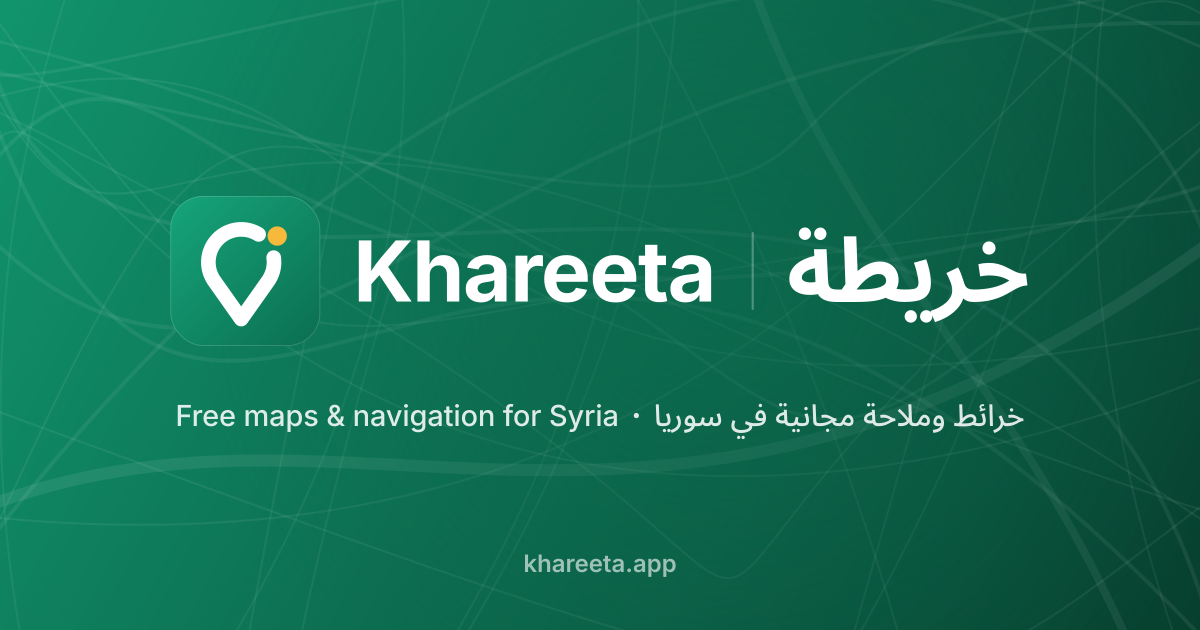
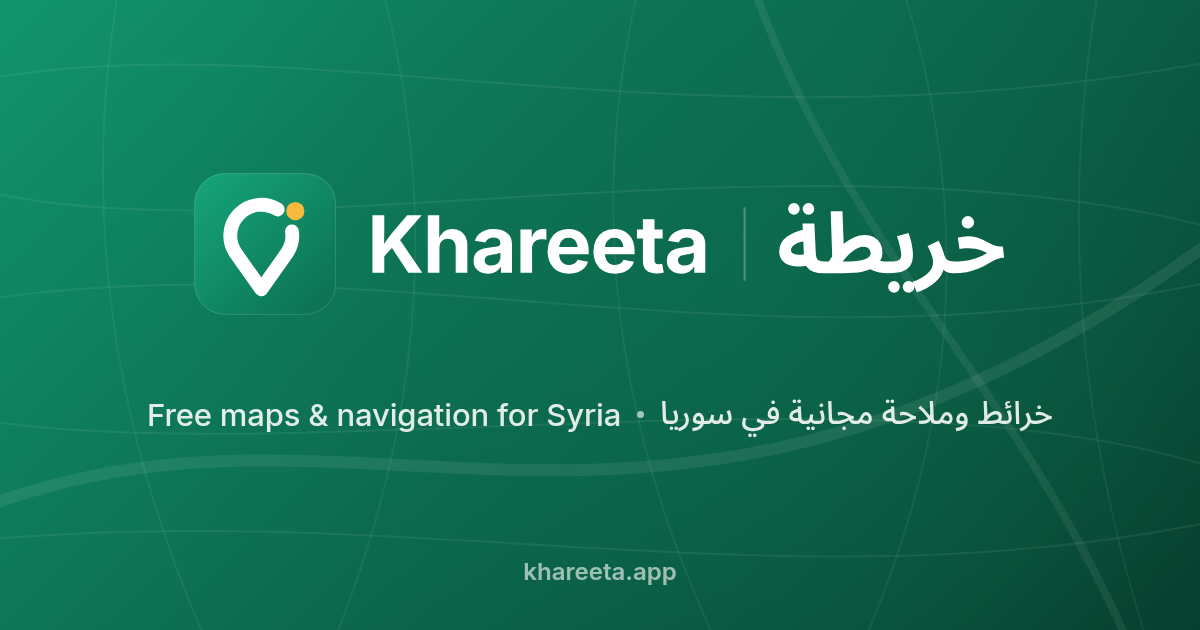
Quick Fixes: VERSION Berliner Zeit, Attribution, A11y, SEO-Basis
- scripts/bump-version.sh: VERSION in js/util.js + sw.js (Europe/Berlin)
- OSM-Attribution immer sichtbar, lokalisiert (EN/AR/DE), RTL, eigenes Control
- Viewport ohne maximum-scale; Touch-Targets >= 44px
- i18n: doppelte Keys entfernt, aria-labels + About-Quellen lokalisiert
- Manifest-Farben #F4F2EE, robots.txt, sitemap.xml, JSON-LD, OG-Bild aus HTML-Template
- SW: robots/sitemap/OG-Bild nie cachen

diff --git a/js/i18n.js b/js/i18n.js
@@ -1,8 +1,10 @@
 // UI strings – English is the default on first load (always), Arabic (RTL) and German selectable.
 const S = {
 en: {
-  searchOffline: 'Search saved & offline places', add: 'Add', addHint: 'Search for a place, then tap Save', setHint: 'Search for a place, then use “Set as {k}”', locDeniedT: 'Location is off', locDeniedB: 'Allow location access for Khareeta in your browser settings to see where you are and to navigate.', noHeading: 'Compass not available on this device', droppedPin: 'Dropped pin', coordinates: 'Coordinates', copy: 'Copy', editOsm: 'Edit on OpenStreetMap', fee: 'Fee', more: 'More', close: 'Close', fastestRoute: 'Fastest route', shortest: 'Shortest', go: 'Go', noVoice: 'Voice not available in {l} on this device', done: 'Done', arrival: 'arrival', system: 'System', mapHdr: 'Map', appearance: 'Appearance', bilingual: 'Show place names in Arabic too', navHdr: 'Navigation', details: 'Details', seeAll: 'See all', threeD: '3D', settings: 'Settings',
+  searchOffline: 'Search saved & offline places', add: 'Add', addHint: 'Search for a place, then tap Save', setHint: 'Search for a place, then use “Set as {k}”', locDeniedT: 'Location is off', locDeniedB: 'Allow location access for Khareeta in your browser settings to see where you are and to navigate.', noHeading: 'Compass not available on this device', droppedPin: 'Dropped pin', coordinates: 'Coordinates', copy: 'Copy', editOsm: 'Edit on OpenStreetMap', fee: 'Fee', more: 'More', close: 'Close', fastestRoute: 'Fastest route', shortest: 'Shortest', go: 'Go', noVoice: 'Voice not available in {l} on this device', done: 'Done', arrival: 'arrival', system: 'System', mapHdr: 'Map', appearance: 'Appearance', bilingual: 'Show place names in Arabic too', navHdr: 'Navigation', details: 'Details', threeD: '3D', settings: 'Settings',
   search: 'Search Khareeta', directions: 'Directions', menu: 'Menu', clear: 'Clear',
+  zoomIn: 'Zoom in', zoomOut: 'Zoom out', back: 'Back', swap: 'Swap start and destination', sheet: 'Panel – tap to resize', mapAria: 'Map', osmAttr: '© OpenStreetMap contributors', mapCredits: 'Map credits',
+  aboutText: 'Khareeta is a free navigation app built on OpenStreetMap. It only uses key-free community services that do not block Syria.', cMapData: 'Map data', cOsm: 'OpenStreetMap contributors', cPlaces: 'Places (hotels, ATMs, restaurants …): bundled OpenStreetMap extract for Syria via {g}, data from {d}', cTiles: 'Vector tiles & styles', cRenderer: 'Map renderer', cSearch: 'Search', cRouting: 'Routing', cPoi: 'Place details', cPhotos: 'Photos & articles', cWeather: 'Weather', cTerrain: 'Terrain', cStyle: 'Map style & sprites: Khareeta design', cIcons: 'Icons', cFonts: 'Fonts',
   openNow: 'Open now', nearbyN: '{n} within 10 km', inSyria: '{n} in Syria', hoursKnown: 'hours known for {n}', noOpenNow: 'Nothing listed as open right now – opening hours are only known for some places.', liveSearch: 'Search live OpenStreetMap in this area', poiData: 'Places: © OpenStreetMap contributors (ODbL), data from {d}',
   restaurants: 'Restaurants', cafes: 'Cafés', fuel: 'Fuel', pharmacy: 'Pharmacies', hospital: 'Hospitals', atm: 'ATMs & banks', bank: 'Banks',
   mosque: 'Mosques', church: 'Churches', hotel: 'Hotels', supermarket: 'Groceries', bakery: 'Bakeries', parking: 'Parking', toilets: 'Toilets', police: 'Police', school: 'Schools', tourism: 'Attractions',
@@ -36,13 +38,15 @@ en: {
   rbt: 'At the roundabout, take exit {x}', rbtOnto: 'At the roundabout, take exit {x} onto {n}', rbtEnter: 'Enter the roundabout', endRoad: 'At the end of the road, {a}', cont: 'Continue', contOn: 'Continue on {n}',
   arriveDest: 'You have arrived at your destination', arriveL: 'Your destination is on the left', arriveR: 'Your destination is on the right', arriveWp: 'You have reached stop {n}',
   ferry: 'Take the ferry', inDist: 'In {d}, {i}', ordinals: ['1st','2nd','3rd','4th','5th','6th','7th','8th','9th','10th'],
-  sources: 'Data', reportIssue: 'Data from OpenStreetMap – anyone can improve it.', share_route: 'Share route', settings: 'Settings',
+  sources: 'Data', reportIssue: 'Data from OpenStreetMap – anyone can improve it.', share_route: 'Share route',
   tryAgain: 'Try again', netErr: 'Network problem – retrying with another server…', serviceDown: 'Service unreachable. Check your connection.',
   osmLink: 'View on OpenStreetMap', moreInfo: 'More info', seeAll: 'See all', opennow: 'Open now', distance: 'Distance', duration: 'Time', simulate: 'Simulate drive', stats: 'Anonymous usage statistics', privacy: 'Privacy', privacyText: 'No account, no tracking cookies. If enabled, Khareeta sends anonymous counts (random install id, language, device type, app version, country/city at ~10 km precision only if you shared your location). Never your exact position, IP address or search texts. Saved places stay on your device.',
 },
 ar: {
-  searchOffline: 'ابحث في الأماكن المحفوظة وغير المتصلة', add: 'إضافة', addHint: 'ابحث عن مكان ثم اضغط حفظ', setHint: 'ابحث عن مكان ثم استخدم «تعيين كـ{k}»', locDeniedT: 'الموقع متوقف', locDeniedB: 'اسمح لخريطة بالوصول إلى موقعك من إعدادات المتصفح لرؤية مكانك والملاحة.', noHeading: 'البوصلة غير متاحة على هذا الجهاز', droppedPin: 'دبوس', coordinates: 'الإحداثيات', copy: 'نسخ', editOsm: 'تعديل في OpenStreetMap', fee: 'رسوم', more: 'المزيد', close: 'إغلاق', fastestRoute: 'أسرع طريق', shortest: 'الأقصر', go: 'انطلق', noVoice: 'الصوت غير متاح بـ{l} على هذا الجهاز', done: 'تم', arrival: 'الوصول', system: 'النظام', mapHdr: 'الخريطة', appearance: 'المظهر', bilingual: 'إظهار أسماء الأماكن بالعربية أيضًا', navHdr: 'الملاحة', details: 'التفاصيل', seeAll: 'عرض الكل', threeD: 'ثلاثي الأبعاد', settings: 'الإعدادات',
+  searchOffline: 'ابحث في الأماكن المحفوظة وغير المتصلة', add: 'إضافة', addHint: 'ابحث عن مكان ثم اضغط حفظ', setHint: 'ابحث عن مكان ثم استخدم «تعيين كـ{k}»', locDeniedT: 'الموقع متوقف', locDeniedB: 'اسمح لخريطة بالوصول إلى موقعك من إعدادات المتصفح لرؤية مكانك والملاحة.', noHeading: 'البوصلة غير متاحة على هذا الجهاز', droppedPin: 'دبوس', coordinates: 'الإحداثيات', copy: 'نسخ', editOsm: 'تعديل في OpenStreetMap', fee: 'رسوم', more: 'المزيد', close: 'إغلاق', fastestRoute: 'أسرع طريق', shortest: 'الأقصر', go: 'انطلق', noVoice: 'الصوت غير متاح بـ{l} على هذا الجهاز', done: 'تم', arrival: 'الوصول', system: 'النظام', mapHdr: 'الخريطة', appearance: 'المظهر', bilingual: 'إظهار أسماء الأماكن بالعربية أيضًا', navHdr: 'الملاحة', details: 'التفاصيل', threeD: 'ثلاثي الأبعاد', settings: 'الإعدادات',
   search: 'ابحث عن مكان أو عنوان', directions: 'الاتجاهات', menu: 'القائمة', clear: 'مسح',
+  zoomIn: 'تكبير', zoomOut: 'تصغير', back: 'رجوع', swap: 'تبديل البداية والوجهة', sheet: 'اللوحة – اضغط لتغيير الحجم', mapAria: 'الخريطة', osmAttr: '© مساهمو OpenStreetMap', mapCredits: 'مصادر الخريطة',
+  aboutText: 'خريطة تطبيق ملاحة مجاني ومفتوح المصدر مبني على بيانات OpenStreetMap ويستخدم فقط خدمات مجتمعية لا تتطلب مفاتيح ولا تحجب سوريا.', cMapData: 'بيانات الخريطة', cOsm: 'مساهمو OpenStreetMap', cPlaces: 'الأماكن (فنادق، صرافات، مطاعم …): مستخرج OpenStreetMap لسوريا مضمّن في التطبيق عبر {g}، بيانات بتاريخ {d}', cTiles: 'مربعات الخريطة المتجهة والأنماط', cRenderer: 'محرك عرض الخريطة', cSearch: 'البحث', cRouting: 'حساب المسارات', cPoi: 'تفاصيل الأماكن', cPhotos: 'الصور والمقالات', cWeather: 'الطقس', cTerrain: 'التضاريس', cStyle: 'نمط الخريطة والرموز: تصميم خريطة', cIcons: 'الأيقونات', cFonts: 'الخطوط',
   openNow: 'مفتوح الآن', nearbyN: '{n} ضمن ١٠ كم', inSyria: '{n} في سوريا', hoursKnown: 'ساعات العمل معروفة لـ {n}', noOpenNow: 'لا توجد أماكن مفتوحة حسب البيانات – ساعات العمل معروفة لبعض الأماكن فقط.', liveSearch: 'بحث مباشر في OpenStreetMap في هذه المنطقة', poiData: 'الأماكن: © مساهمو OpenStreetMap (ODbL)، بيانات بتاريخ {d}',
   restaurants: 'مطاعم', cafes: 'مقاهٍ', fuel: 'محطات وقود', pharmacy: 'صيدليات', hospital: 'مستشفيات', atm: 'صرافات وبنوك', bank: 'بنوك',
   mosque: 'مساجد', church: 'كنائس', hotel: 'فنادق', supermarket: 'بقالة', bakery: 'أفران', parking: 'مواقف', toilets: 'دورات مياه', police: 'شرطة', school: 'مدارس', tourism: 'معالم سياحية',
@@ -76,13 +80,15 @@ ar: {
   rbt: 'عند الدوار، خذ المخرج {x}', rbtOnto: 'عند الدوار، خذ المخرج {x} إلى {n}', rbtEnter: 'ادخل الدوار', endRoad: 'في نهاية الطريق، {a}', cont: 'تابع', contOn: 'تابع على {n}',
   arriveDest: 'لقد وصلت إلى وجهتك', arriveL: 'وجهتك على اليسار', arriveR: 'وجهتك على اليمين', arriveWp: 'وصلت إلى التوقف {n}',
   ferry: 'استقل العبّارة', inDist: 'بعد {d}، {i}', ordinals: ['الأول','الثاني','الثالث','الرابع','الخامس','السادس','السابع','الثامن','التاسع','العاشر'],
-  sources: 'البيانات', reportIssue: 'البيانات من OpenStreetMap – يمكن لأي شخص تحسينها.', share_route: 'مشاركة المسار', settings: 'الإعدادات',
+  sources: 'البيانات', reportIssue: 'البيانات من OpenStreetMap – يمكن لأي شخص تحسينها.', share_route: 'مشاركة المسار',
   tryAgain: 'إعادة المحاولة', netErr: 'مشكلة في الشبكة – إعادة المحاولة بخادم آخر…', serviceDown: 'تعذّر الوصول إلى الخدمة. تحقق من اتصالك.',
   osmLink: 'عرض على OpenStreetMap', moreInfo: 'معلومات إضافية', seeAll: 'عرض الكل', opennow: 'مفتوح الآن', distance: 'المسافة', duration: 'الوقت', simulate: 'محاكاة القيادة', stats: 'إحصاءات استخدام مجهولة', privacy: 'الخصوصية', privacyText: 'لا حساب ولا ملفات تعريف تتبع. عند التفعيل يرسل التطبيق أعدادًا مجهولة فقط (معرّف عشوائي، اللغة، نوع الجهاز، الإصدار، الدولة/المدينة بدقة ~١٠ كم فقط إذا شاركت موقعك). لا يُرسل موقعك الدقيق أو عنوان IP أو نصوص البحث أبدًا. الأماكن المحفوظة تبقى على جهازك.',
 },
 de: {
-  searchOffline: 'Gespeicherte & Offline-Orte suchen', add: 'Hinzufügen', addHint: 'Ort suchen und dann „Speichern“ tippen', setHint: 'Ort suchen und dann „Als {k} festlegen“ nutzen', locDeniedT: 'Standort ist aus', locDeniedB: 'Erlaube Khareeta in den Browser-Einstellungen den Standortzugriff, um deine Position zu sehen und zu navigieren.', noHeading: 'Kompass auf diesem Gerät nicht verfügbar', droppedPin: 'Markierung', coordinates: 'Koordinaten', copy: 'Kopieren', editOsm: 'In OpenStreetMap bearbeiten', fee: 'Gebühr', more: 'Mehr', close: 'Schließen', fastestRoute: 'Schnellste Route', shortest: 'Kürzeste', go: 'Los', noVoice: 'Sprachausgabe auf {l} auf diesem Gerät nicht verfügbar', done: 'Fertig', arrival: 'Ankunft', system: 'Automatisch', mapHdr: 'Karte', appearance: 'Darstellung', bilingual: 'Ortsnamen zusätzlich auf Arabisch anzeigen', navHdr: 'Navigation', details: 'Details', seeAll: 'Alle', threeD: '3D', settings: 'Einstellungen',
+  searchOffline: 'Gespeicherte & Offline-Orte suchen', add: 'Hinzufügen', addHint: 'Ort suchen und dann „Speichern“ tippen', setHint: 'Ort suchen und dann „Als {k} festlegen“ nutzen', locDeniedT: 'Standort ist aus', locDeniedB: 'Erlaube Khareeta in den Browser-Einstellungen den Standortzugriff, um deine Position zu sehen und zu navigieren.', noHeading: 'Kompass auf diesem Gerät nicht verfügbar', droppedPin: 'Markierung', coordinates: 'Koordinaten', copy: 'Kopieren', editOsm: 'In OpenStreetMap bearbeiten', fee: 'Gebühr', more: 'Mehr', close: 'Schließen', fastestRoute: 'Schnellste Route', shortest: 'Kürzeste', go: 'Los', noVoice: 'Sprachausgabe auf {l} auf diesem Gerät nicht verfügbar', done: 'Fertig', arrival: 'Ankunft', system: 'Automatisch', mapHdr: 'Karte', appearance: 'Darstellung', bilingual: 'Ortsnamen zusätzlich auf Arabisch anzeigen', navHdr: 'Navigation', details: 'Details', threeD: '3D', settings: 'Einstellungen',
   search: 'In Khareeta suchen', directions: 'Route', menu: 'Menü', clear: 'Löschen',
+  zoomIn: 'Vergrößern', zoomOut: 'Verkleinern', back: 'Zurück', swap: 'Start und Ziel tauschen', sheet: 'Bereich – tippen zum Vergrößern/Verkleinern', mapAria: 'Karte', osmAttr: '© OpenStreetMap-Mitwirkende', mapCredits: 'Kartenquellen',
+  aboutText: 'Khareeta ist eine freie Navigations-App auf Basis von OpenStreetMap. Sie nutzt nur schlüsselfreie Community-Dienste, die Syrien nicht sperren.', cMapData: 'Kartendaten', cOsm: 'OpenStreetMap-Mitwirkende', cPlaces: 'Orte (Hotels, Geldautomaten, Restaurants …): mitgelieferter OpenStreetMap-Auszug für Syrien über {g}, Datenstand {d}', cTiles: 'Vektorkacheln & Stile', cRenderer: 'Kartendarstellung', cSearch: 'Suche', cRouting: 'Routenplanung', cPoi: 'Ortsdetails', cPhotos: 'Fotos & Artikel', cWeather: 'Wetter', cTerrain: 'Gelände', cStyle: 'Kartenstil & Symbole: Khareeta-Design', cIcons: 'Icons', cFonts: 'Schriften',
   openNow: 'Jetzt geöffnet', nearbyN: '{n} im Umkreis von 10 km', inSyria: '{n} in Syrien', hoursKnown: 'Öffnungszeiten bekannt für {n}', noOpenNow: 'Derzeit nichts als geöffnet erfasst – Öffnungszeiten sind nur für einen Teil der Orte bekannt.', liveSearch: 'Live in OpenStreetMap in diesem Gebiet suchen', poiData: 'Orte: © OpenStreetMap-Mitwirkende (ODbL), Datenstand {d}',
   restaurants: 'Restaurants', cafes: 'Cafés', fuel: 'Tankstellen', pharmacy: 'Apotheken', hospital: 'Krankenhäuser', atm: 'Geldautomaten & Banken', bank: 'Banken',
   mosque: 'Moscheen', church: 'Kirchen', hotel: 'Hotels', supermarket: 'Lebensmittel', bakery: 'Bäckereien', parking: 'Parken', toilets: 'Toiletten', police: 'Polizei', school: 'Schulen', tourism: 'Sehenswürdigkeiten',
@@ -116,7 +122,7 @@ de: {
   rbt: 'Im Kreisverkehr die {x} Ausfahrt nehmen', rbtOnto: 'Im Kreisverkehr die {x} Ausfahrt auf {n} nehmen', rbtEnter: 'In den Kreisverkehr einfahren', endRoad: 'Am Ende der Straße {a}', cont: 'Weiterfahren', contOn: 'Weiter auf {n}',
   arriveDest: 'Du hast dein Ziel erreicht', arriveL: 'Das Ziel befindet sich links', arriveR: 'Das Ziel befindet sich rechts', arriveWp: 'Stopp {n} erreicht',
   ferry: 'Fähre nehmen', inDist: 'In {d}: {i}', ordinals: ['1.','2.','3.','4.','5.','6.','7.','8.','9.','10.'],
-  sources: 'Daten', reportIssue: 'Daten von OpenStreetMap – jeder kann sie verbessern.', share_route: 'Route teilen', settings: 'Einstellungen',
+  sources: 'Daten', reportIssue: 'Daten von OpenStreetMap – jeder kann sie verbessern.', share_route: 'Route teilen',
   tryAgain: 'Erneut versuchen', netErr: 'Netzwerkproblem – versuche anderen Server…', serviceDown: 'Dienst nicht erreichbar. Verbindung prüfen.',
   osmLink: 'Auf OpenStreetMap ansehen', moreInfo: 'Mehr Infos', seeAll: 'Alle anzeigen', opennow: 'Jetzt geöffnet', distance: 'Entfernung', duration: 'Dauer', simulate: 'Fahrt simulieren', stats: 'Anonyme Nutzungsstatistik', privacy: 'Datenschutz', privacyText: 'Kein Konto, keine Tracking-Cookies. Wenn aktiviert, sendet Khareeta nur anonyme Zählwerte (zufällige Installations-ID, Sprache, Gerätetyp, App-Version, Land/Stadt auf ~10 km genau nur wenn du deinen Standort geteilt hast). Niemals genaue Position, IP-Adresse oder Suchtexte. Gespeicherte Orte bleiben auf deinem Gerät.',
 }};

diff --git a/js/app.js b/js/app.js
@@ -20,13 +20,18 @@ syncDarkClass();
 window.KH = { App, VERSION, setSheet: s => import('./core.js').then(m => m.setSheet(s)) };
 
 // ---------- static UI ----------
+let attrib = null; // map attribution control (created with the map below)
 function renderUI() {
   $('#btnMenu').innerHTML = ic('settings'); $('#btnClear').innerHTML = ic('close');
   $('#btnLayers').innerHTML = ic('layers'); $('#btn3d').innerHTML = ic('cube');
   $('#btnCompass').innerHTML = `<svg viewBox="0 0 24 24" width="22" height="22" aria-hidden="true"><path d="M12 2l4 10h-8z" fill="#E5484D"/><path d="M12 22l-4-10h8z" fill="currentColor" opacity=".55"/></svg>`;
   renderLocBtn();
   $('#q').placeholder = navigator.onLine ? t('search') : t('searchOffline');
-  ['btnMenu:settings', 'btnLayers:layers', 'btn3d:threeD', 'btnLocate:myLoc', 'btnCompass:north'].forEach(s => { const [id, k] = s.split(':'); $('#' + id).setAttribute('aria-label', t(k)); $('#' + id).title = t(k); });
+  ['btnMenu:settings', 'btnLayers:layers', 'btn3d:threeD', 'btnLocate:myLoc', 'btnCompass:north', 'btnClear:clear', 'btnZin:zoomIn', 'btnZout:zoomOut', 'dirBack:back', 'dirSwap:swap'].forEach(s => { const [id, k] = s.split(':'); $('#' + id).setAttribute('aria-label', t(k)); $('#' + id).title = t(k); });
+  $('.grab')?.setAttribute('aria-label', t('sheet'));
+  $('#map').setAttribute('aria-label', t('mapAria'));
+  App.map?.getCanvas().setAttribute('aria-label', t('mapAria'));
+  attrib?.render();
   renderChips();
   document.title = getLang() === 'ar' ? 'خريطة · Khareeta' : 'Khareeta · خريطة';
 }
@@ -49,6 +54,10 @@ async function initialStyle() {
   try { return await buildStyle(settings.style); }
   catch (e) {
     console.warn('style failed, raster fallback', e);
+    // OSMF tile usage policy (operations.osmfoundation.org/policies/tiles): this emergency fallback only serves tiles the user
+    // is viewing. Compliant: exact https URL, browser UA + default Referer (no restrictive Referrer-Policy), visible
+    // attribution (KAttribution), browser HTTP cache only (sw.js does not touch these tiles), no prefetch/offline download
+    // (offline.js only works with the 'openmaptiles' vector source). Open points: README › "OSM tile fallback".
     return { version: 8, sources: { osm: { type: 'raster', tiles: ['https://tile.openstreetmap.org/{z}/{x}/{y}.png'], tileSize: 256, maxzoom: 19, attribution: '© OpenStreetMap contributors' } }, layers: [{ id: 'osm', type: 'raster', source: 'osm' }] };
   }
 }
@@ -62,8 +71,48 @@ const map = App.map = new maplibregl.Map({
   maxTileCacheZoomLevels: 5, refreshExpiredTiles: false,
 });
 map.touchZoomRotate.enableRotation();
-map.addControl(new maplibregl.AttributionControl({ compact: true }), 'bottom-left');
-map.once('load', () => document.querySelector('.maplibregl-ctrl-attrib')?.classList.remove('maplibregl-compact-show'));
+map.getCanvas().setAttribute('aria-label', t('mapAria'));
+// Attribution (OSMF attribution guidelines): "© OpenStreetMap contributors" stays visible at all times,
+// linked to the copyright page and localized; the ⓘ button reveals the remaining source credits.
+class KAttribution {
+  onAdd(m) {
+    this.m = m;
+    const el = this.el = document.createElement('div');
+    el.className = 'maplibregl-ctrl kattr k-glass';
+    el.innerHTML = `<div class="kattr-row"><a class="kattr-osm" href="https://www.openstreetmap.org/copyright" target="_blank" rel="noopener"></a><button type="button" class="kattr-more" aria-expanded="false"><svg viewBox="0 0 24 24" width="16" height="16" aria-hidden="true"><circle cx="12" cy="12" r="9.25" fill="none" stroke="currentColor" stroke-width="1.5"/><path d="M11.1 10.4h1.8V17h-1.8zM12 6.6a1.15 1.15 0 1 1 0 2.3 1.15 1.15 0 0 1 0-2.3z" fill="currentColor"/></svg></button></div><div class="kattr-extra" hidden></div>`;
+    el.querySelector('.kattr-more').addEventListener('click', () => this.toggle());
+    this.upd = () => this.renderExtra();
+    m.on('styledata', this.upd); m.on('sourcedata', this.upd);
+    this.render();
+    return el;
+  }
+  onRemove() { this.m.off('styledata', this.upd); this.m.off('sourcedata', this.upd); this.el.remove(); }
+  toggle(force) {
+    const open = force ?? this.el.querySelector('.kattr-extra').hidden;
+    this.el.querySelector('.kattr-extra').hidden = !open;
+    this.el.querySelector('.kattr-more').setAttribute('aria-expanded', String(open));
+    this.el.classList.toggle('open', open);
+  }
+  render() {
+    if (!this.el) return;
+    const a = this.el.querySelector('.kattr-osm'); a.textContent = t('osmAttr'); a.lang = getLang();
+    const b = this.el.querySelector('.kattr-more'); b.setAttribute('aria-label', t('mapCredits')); b.title = t('mapCredits');
+    this.renderExtra();
+  }
+  renderExtra() {
+    const srcs = this.m?.getStyle?.()?.sources || {}, seen = new Set(), out = [];
+    for (const s of Object.values(srcs)) {
+      // the OSM credit is already shown permanently; drop its duplicates from the source strings
+      const h = String(s.attribution || '').replace(/(Data from\s*)?<a[^>]*openstreetmap\.org[^>]*>[^<]*<\/a>/gi, '').replace(/©?\s*OpenStreetMap contributors/gi, '').trim();
+      if (h && !seen.has(h)) { seen.add(h); out.push(h); }
+    }
+    const x = this.el.querySelector('.kattr-extra'), html = out.join(' · ');
+    if (x.innerHTML !== html) x.innerHTML = html;
+    this.el.querySelector('.kattr-more').classList.toggle('hidden', !out.length);
+  }
+}
+attrib = new KAttribution();
+map.addControl(attrib, 'bottom-left');
 const scale = new maplibregl.ScaleControl({ maxWidth: 90, unit: 'metric' });
 map.addControl(scale, 'bottom-left');
 function poiLayers() { if (!POIS.geo || map.getSource('kh-poi')) return; addPoiLayers(map, mapIsDark()); relabel(map); if (navActive()) setPoiVisible(map, false); }

diff --git a/js/ui.js b/js/ui.js
@@ -45,7 +45,7 @@ export function openDrawer() {
       <button class="ditem" data-a="stats">${ic('info')}${t('stats')}${sw(localStorage.getItem('kh.noTrack') !== '1')}</button>
       <button class="ditem" data-a="about">${ic('info')}${t('about')}<span class="dv">${ic('chevron', 'sm flip-rtl')}</span></button>
     </div>
-    <div class="dfoot">Khareeta v${VERSION}<br>© OpenStreetMap contributors · OpenFreeMap · OpenMapTiles</div>`;
+    <div class="dfoot">Khareeta v${VERSION}<br><a href="https://www.openstreetmap.org/copyright" target="_blank" rel="noopener">${t('osmAttr')}</a> · OpenFreeMap · OpenMapTiles</div>`;
   d.setAttribute('aria-label', t('settings'));
   d.classList.add('open'); $('#scrim').classList.remove('hidden');
   if (!App.installPrompt && !/iphone|ipad/i.test(navigator.userAgent)) $('#dInstall').classList.add('hidden');
@@ -97,18 +97,18 @@ export function showSaved() {
 
 function showAbout() {
   openSheet(`<div class="sec about-brand">${brandLogo('alogo')}<h2 class="sr-only">Khareeta · خريطة</h2><p class="psub">v${VERSION}</p></div>
-  <div class="prow">${ic('info')}<div class="pv wiki">${getLang() === 'ar' ? 'خريطة تطبيق ملاحة مجاني ومفتوح المصدر مبني على بيانات OpenStreetMap ويستخدم فقط خدمات مجتمعية لا تتطلب مفاتيح ولا تحجب سوريا.' : getLang() === 'de' ? 'Khareeta ist eine freie Navigations-App auf Basis von OpenStreetMap. Sie nutzt nur schlüsselfreie Community-Dienste, die Syrien nicht sperren.' : 'Khareeta is a free navigation app built on OpenStreetMap. It only uses key-free community services that do not block Syria.'}</div></div>
+  <div class="prow">${ic('info')}<div class="pv wiki">${t('aboutText')}</div></div>
   <div class="prow">${ic('map')}<div class="pv"><b>${t('sources')}</b><small>
-  Map data © <a href="https://www.openstreetmap.org/copyright" target="_blank">OpenStreetMap contributors</a> (ODbL)<br>Places (hotels, ATMs, restaurants …): bundled OpenStreetMap extract for Syria via <a href="https://download.geofabrik.de/asia/syria.html" target="_blank">Geofabrik</a>, data from 2026-10-31 (ODbL)<br>
-  Vector tiles & styles: <a href="https://openfreemap.org" target="_blank">OpenFreeMap</a>, <a href="https://openmaptiles.org" target="_blank">© OpenMapTiles</a><br>
-  Map renderer: <a href="https://maplibre.org" target="_blank">MapLibre GL JS</a> (BSD-3) · RTL: mapbox-gl-rtl-text (BSD-2)<br>
-  Search: <a href="https://photon.komoot.io" target="_blank">Photon by komoot</a> · <a href="https://nominatim.org" target="_blank">Nominatim</a> (OSMF)<br>
-  Routing: <a href="https://routing.openstreetmap.de" target="_blank">FOSSGIS OSRM</a> · <a href="https://valhalla1.openstreetmap.de" target="_blank">FOSSGIS Valhalla</a><br>
-  POI details: Overpass API (overpass-api.de, private.coffee, VK Maps)<br>
-  Photos & articles: Wikimedia Commons, Wikipedia, Wikidata (CC BY-SA) · <a href="https://panoramax.fr" target="_blank">Panoramax</a><br>
-  Weather: <a href="https://open-meteo.com" target="_blank">Open-Meteo</a> (CC BY 4.0)<br>
-  Terrain: <a href="https://mapterhorn.com" target="_blank">Mapterhorn</a> · Map style &amp; sprites: Khareeta design<br>
-  Icons: Material Design Icons (Apache 2.0) · Maki sprites (CC0) · Fonts: Inter, Noto Sans Arabic (OFL)</small></div></div>
+  ${t('cMapData')} © <a href="https://www.openstreetmap.org/copyright" target="_blank" rel="noopener">${t('cOsm')}</a> (ODbL)<br>${t('cPlaces', { g: '<a href="https://download.geofabrik.de/asia/syria.html" target="_blank" rel="noopener">Geofabrik</a>', d: '<bdi>2026-10-31</bdi>' })} (ODbL)<br>
+  ${t('cTiles')}: <a href="https://openfreemap.org" target="_blank" rel="noopener">OpenFreeMap</a>, <a href="https://openmaptiles.org" target="_blank" rel="noopener">© OpenMapTiles</a><br>
+  ${t('cRenderer')}: <a href="https://maplibre.org" target="_blank" rel="noopener">MapLibre GL JS</a> (BSD-3) · RTL: mapbox-gl-rtl-text (BSD-2)<br>
+  ${t('cSearch')}: <a href="https://photon.komoot.io" target="_blank" rel="noopener">Photon by komoot</a> · <a href="https://nominatim.org" target="_blank" rel="noopener">Nominatim</a> (OSMF)<br>
+  ${t('cRouting')}: <a href="https://routing.openstreetmap.de" target="_blank" rel="noopener">FOSSGIS OSRM</a> · <a href="https://valhalla1.openstreetmap.de" target="_blank" rel="noopener">FOSSGIS Valhalla</a><br>
+  ${t('cPoi')}: Overpass API (overpass-api.de, private.coffee, VK Maps)<br>
+  ${t('cPhotos')}: Wikimedia Commons, Wikipedia, Wikidata (CC BY-SA) · <a href="https://panoramax.fr" target="_blank" rel="noopener">Panoramax</a><br>
+  ${t('cWeather')}: <a href="https://open-meteo.com" target="_blank" rel="noopener">Open-Meteo</a> (CC BY 4.0)<br>
+  ${t('cTerrain')}: <a href="https://mapterhorn.com" target="_blank" rel="noopener">Mapterhorn</a> · ${t('cStyle')}<br>
+  ${t('cIcons')}: Material Design Icons (Apache 2.0) · Maki sprites (CC0) · ${t('cFonts')}: Inter, Noto Sans Arabic (OFL)</small></div></div>
   <div class="prow">${ic('info')}<div class="pv"><b>${t('privacy')}</b><small>${t('privacyText')}</small></div></div>`, 'half');
 }
 

diff --git a/tools/og/og-image.html b/tools/og/og-image.html
@@ -1,0 +1,38 @@
+<!doctype html>
+<!-- Template for icons/og-image.png (1200×630). Render with: sh tools/og/render.sh -->
+<html lang="en"><head><meta charset="utf-8"><title>Khareeta OG image</title>
+<style>
+@font-face{font-family:Inter;font-weight:500;src:url(../../fonts/inter-latin-500-normal.woff2) format('woff2')}
+@font-face{font-family:Inter;font-weight:600;src:url(../../fonts/inter-latin-600-normal.woff2) format('woff2')}
+@font-face{font-family:'Noto Sans Arabic';font-weight:500;src:url(../../fonts/noto-sans-arabic-arabic-500-normal.woff2) format('woff2')}
+html,body{margin:0;width:1200px;height:630px;overflow:hidden}
+body{position:relative;background:linear-gradient(135deg,#11946c 0%,#073f2e 100%);color:#fff;font-family:Inter,'Noto Sans Arabic',sans-serif;-webkit-font-smoothing:antialiased}
+.glow{position:absolute;inset:0;background:radial-gradient(circle 540px at 60% 45%,rgba(12,110,80,.55),rgba(12,110,80,0))}
+svg.tex{position:absolute;inset:0}
+.wrap{position:absolute;inset:0;display:flex;flex-direction:column;align-items:center;justify-content:center;gap:44px;padding-bottom:30px}
+.lockup{width:854px;height:auto;display:block}
+.tag{font-size:31px;font-weight:500;opacity:.88;letter-spacing:-.005em;display:flex;gap:16px;align-items:center}
+.tag [lang=ar]{font-family:'Noto Sans Arabic';font-size:32px}
+.tag i{width:7px;height:7px;border-radius:50%;background:#fff;opacity:.7}
+.url{position:absolute;left:0;right:0;bottom:44px;text-align:center;font-size:24px;font-weight:600;opacity:.6}
+</style></head>
+<body>
+<div class="glow"></div>
+<svg class="tex" width="1200" height="630" viewBox="0 0 1200 630" fill="none" stroke="#fff" aria-hidden="true">
+  <!-- "street" texture: deterministic curves, like the brand banner -->
+  <g stroke-opacity=".07" stroke-width="2">
+    <path d="M-20 80 C300 20 700 160 1220 60"/><path d="M-20 190 C260 260 820 120 1220 230"/><path d="M-20 300 C380 240 760 380 1220 280"/>
+    <path d="M-20 420 C300 470 900 360 1220 470"/><path d="M-20 540 C420 500 800 610 1220 520"/>
+  </g>
+  <g stroke-opacity=".06" stroke-width="2">
+    <path d="M120 -20 Q60 315 210 650"/><path d="M380 -20 Q470 315 330 650"/><path d="M640 -20 Q560 315 720 650"/><path d="M900 -20 Q1010 315 860 650"/><path d="M1100 -20 Q1040 315 1150 650"/>
+  </g>
+  <path d="M-40 517 C360 346 660 662 1240 220" stroke-opacity=".08" stroke-width="12" stroke-linecap="round"/>
+  <path d="M744 -40 C840 252 1020 378 1140 670" stroke-opacity=".07" stroke-width="8"/>
+</svg>
+<div class="wrap">
+  <img class="lockup" src="../../icons/logo-lockup-dark.svg" alt="Khareeta | خريطة">
+  <div class="tag"><span>Free maps &amp; navigation for Syria</span><i></i><span lang="ar" dir="rtl">خرائط وملاحة مجانية في سوريا</span></div>
+</div>
+<div class="url">khareeta.app</div>
+</body></html>

diff --git a/css/app.css b/css/app.css
@@ -355,3 +355,29 @@ body.sheet-up:not(.dir-open) #chips{opacity:0;pointer-events:none}
 .psub.small{font-size:12px;opacity:.75;margin-top:8px}
 .srow .t1[dir=auto]{unicode-bidi:plaintext;text-align:left}
 [dir=rtl] .srow .t1[dir=auto]{text-align:right}
+
+/* ---------- Map attribution (DESIGN.md §4.7): OSM credit always visible, ⓘ reveals the other sources ---------- */
+.maplibregl-ctrl.kattr{margin:0 0 8px;margin-inline-start:8px;display:flex;flex-direction:column;gap:4px;max-width:min(320px,calc(100vw - 96px));padding:0 4px;padding-inline-start:10px;border-radius:12px;font:500 var(--k-text-micro)/1.35 var(--k-font,inherit);color:var(--k-text-2);clear:both;float:none}
+.kattr-row{display:flex;align-items:center;gap:2px;min-height:24px}
+.kattr a{color:inherit;text-decoration:none}
+.kattr a:hover{text-decoration:underline}
+.kattr-osm{position:relative;display:inline-flex;align-items:center;min-height:24px;white-space:nowrap;touch-action:manipulation}
+.kattr-osm::before{content:"";position:absolute;inset:-10px 0}
+.kattr-more{position:relative;width:24px;height:24px;display:grid;place-items:center;flex:none;border-radius:50%;color:var(--k-text-3);touch-action:manipulation}
+.kattr-more::before{content:"";position:absolute;inset:-10px}
+.kattr.open .kattr-more{color:var(--k-accent)}
+.kattr-extra{padding:0 0 6px;padding-inline-end:6px;color:var(--k-text-2)}
+.kattr-extra a{text-decoration:underline;text-decoration-color:var(--k-separator,currentColor)}
+.kattr.open{border-radius:14px}
+
+/* ---------- Touch targets ≥ 44×44 (DESIGN.md: visuals may stay smaller, the hit area grows via ::before) ---------- */
+button,a,[role=button],summary{touch-action:manipulation}
+.grab{position:relative}.grab::before{content:"";position:absolute;inset:-8px 0}
+#btnMenu,#btnClear,.irow button.ib,.stop .ib,.seg button,.ochip,.act,.addstop,#hAll,.hhead button{position:relative}
+#btnMenu::before,#btnClear::before{content:"";position:absolute;inset:-2px}
+.irow button.ib::before{content:"";position:absolute;inset:-4px}
+.stop .ib::before{content:"";position:absolute;inset:-5px}
+.seg button::before,.ochip::before{content:"";position:absolute;inset:-4px 0}
+.act::before{content:"";position:absolute;inset:-2px 0}
+.addstop{min-height:44px;margin-block:-11px}
+.hhead button,#hAll{min-height:44px;min-width:44px;margin-block:-10px;padding-inline:8px;margin-inline-end:-8px}

diff --git a/index.html b/index.html
@@ -2,7 +2,7 @@
 <html lang="en" dir="ltr">
 <head>
 <meta charset="utf-8">
-<meta name="viewport" content="width=device-width, initial-scale=1, maximum-scale=1, viewport-fit=cover">
+<meta name="viewport" content="width=device-width, initial-scale=1, viewport-fit=cover">
 <script>(function(){try{var t=localStorage.getItem('k.theme')||'system';var d=document.documentElement;if(t!=='system')d.dataset.theme=t;var l=localStorage.getItem('kh.lang');if(l==='ar'){d.lang='ar';d.dir='rtl'}else if(l==='de'){d.lang='de'}}catch(e){}})();</script>
 <title>Khareeta · خريطة</title>
 <meta name="description" content="Khareeta – free OpenStreetMap navigation that works in Syria. Search, directions, offline maps.">
@@ -29,6 +29,9 @@
 <meta name="twitter:description" content="Free OpenStreetMap navigation that works in Syria. Search, directions, offline maps.">
 <meta name="twitter:image" content="https://khareeta.app/icons/og-image.png">
 <meta name="twitter:image:alt" content="Khareeta · خريطة – free OpenStreetMap maps for Syria">
+<script type="application/ld+json">
+{"@context":"https://schema.org","@type":"WebApplication","name":"Khareeta · خريطة","alternateName":["Khareeta","خريطة"],"url":"https://khareeta.app/","description":"Free OpenStreetMap navigation that works in Syria. Search, directions, offline maps.","applicationCategory":"TravelApplication","applicationSubCategory":"Maps & Navigation","operatingSystem":"Any (web browser, installable PWA)","browserRequirements":"Requires JavaScript","inLanguage":["ar","de","en"],"isAccessibleForFree":true,"offers":{"@type":"Offer","price":"0","priceCurrency":"USD"},"image":"https://khareeta.app/icons/og-image.png","screenshot":"https://khareeta.app/icons/og-image.png","areaServed":{"@type":"Country","name":"Syria"}}
+</script>
 <link rel="manifest" href="manifest.webmanifest">
 <link rel="icon" href="favicon.ico" sizes="48x48">
 <link rel="icon" href="favicon-32.png" type="image/png" sizes="32x32">
@@ -41,7 +44,7 @@
 <link rel="stylesheet" href="css/app.css">
 </head>
 <body>
-<div id="map" aria-label="Map"></div>
+<div id="map" role="region" aria-label="Map"></div>
 
 <!-- top search -->
 <div id="top">

diff --git a/sw.js b/sw.js
@@ -1,5 +1,5 @@
 /* Khareeta service worker – offline app shell + map data cache */
-const VERSION = '20261101-2152';
+const VERSION = '20261102-0941';
 const SHELL = 'kh-shell-' + VERSION;
 const SHELL_FILES = [
   './',
@@ -126,6 +126,8 @@ self.addEventListener('fetch', e => {
   if (isStyle(u)) return e.respondWith(networkFirst(req, RT, 6000));
   const url = new URL(u);
   if (url.origin === location.origin) {
+    // SEO / sharing files: always straight from the network, never cached by the SW (no offline fallback to index.html)
+    if (/\/(robots\.txt|sitemap\.xml)$/.test(url.pathname) || url.pathname.endsWith('/icons/og-image.png')) return;
     if (req.mode === 'navigate') return e.respondWith(networkFirst(req, SHELL, 4000).catch(() => caches.match('index.html')));
     if (url.pathname.endsWith('/admin.html') || url.pathname.includes('/admin')) return;
     return e.respondWith(caches.match(req, { ignoreSearch: true }).then(h => h || fetch(req).then(r => { if (r.ok) { const cl = r.clone(); caches.open(SHELL).then(c => c.put(req, cl)); } return r; })));

diff --git a/js/util.js b/js/util.js
@@ -1,6 +1,6 @@
 import { t, getLang } from './i18n.js';
 
-export const VERSION = '20261101-2152';
+export const VERSION = '20261102-0941';
 export const $ = (s, r = document) => r.querySelector(s);
 export const $$ = (s, r = document) => [...r.querySelectorAll(s)];
 export const esc = s => String(s ?? '').replace(/[&<>"']/g, c => ({ '&': '&amp;', '<': '&lt;', '>': '&gt;', '"': '&quot;', "'": '&#39;' }[c]));

diff --git a/README.md b/README.md
@@ -72,6 +72,33 @@ coverage of opening hours/phones depends on OpenStreetMap contributors (everyone
 ## Development
 Static site, no build step. Serve the folder with any static web server (`python3 -m http.server`).
 Deep links: `?ll=lat,lon&p=n123&n=Name` (place), `?r=lat,lon;lat,lon&m=car|foot|bike` (route), `?q=text` (search), `#map=z/lat/lon`, `?debug`.
+Use relative paths only – the site must also work under a sub-path (e.g. `/khareeta/`).
+
+### Releasing: bump `VERSION`
+`VERSION` (cache-busting + service-worker cache name) lives in **both** `js/util.js` and `sw.js` and must be identical.
+Run this right before every release commit – it stamps the current Berlin time (`YYYYMMDD-HHMM`, Europe/Berlin):
+
+```sh
+scripts/bump-version.sh              # TZ=Europe/Berlin date +%Y%m%d-%H%M
+scripts/bump-version.sh 20261102-1530   # or an explicit value
+```
+
+### SEO & sharing files
+`robots.txt` (blocks `/admin.html`, points to the sitemap), `sitemap.xml`, Open Graph/Twitter tags and a JSON-LD
+`WebApplication` block in `index.html`. The share image `icons/og-image.png` (1200×630) is rendered from the HTML
+template `tools/og/og-image.html` with headless Chrome: `sh tools/og/render.sh`. The service worker never caches
+these three files (and the OG image is not in the precache).
+
+### Map attribution & OSM tile fallback
+"© OpenStreetMap contributors" (linked to openstreetmap.org/copyright, localized EN/AR/DE) is always visible on the map;
+the ⓘ next to it reveals the other source credits. If the vector style cannot be built, `js/app.js` falls back to the
+raster tiles of `tile.openstreetmap.org`. Checked against the [OSMF Tile Usage Policy](https://operations.osmfoundation.org/policies/tiles/):
+correct HTTPS URL, browser User-Agent and default Referer (no restrictive Referrer-Policy), visible attribution,
+caching only via the browser HTTP cache (the SW ignores these tiles) and **no** prefetch/offline download of OSM tiles
+(the offline feature only uses OpenFreeMap vector tiles). Open/recommended items: the tile URL is hard-coded,
+there is no "Report a map issue" link to openstreetmap.org/fixthemap and no published contact address; OSMF gives no
+SLA and may block heavy use without notice – if OpenFreeMap were down for a long time, all users would land on
+tile.openstreetmap.org at once.
 
 ## Places (POI) data
 
